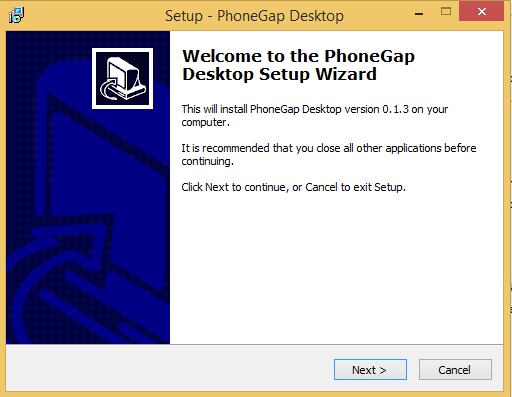
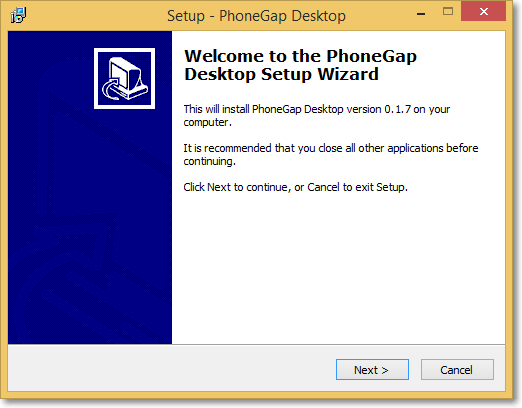
Updated all of the Win screenshots for the install desktop page to have drop-shadow to be consistent with the Mac screenshots and made them png instead of jpg. Fixed typo in SPA doc.

Changed region(s): [[0.0, 0.0, 1.0, 1.0]]

diff --git a/docs/1-getting-started/1-install-phonegap/1-desktop.html.md b/docs/1-getting-started/1-install-phonegap/1-desktop.html.md
@@ -47,25 +47,25 @@ install the __PhoneGap Developer App__ to your mobile device for previewing the 
 
 3. Accept the license agreement:
 
-  ![](/images/win-desktop2.jpg)
+  ![](/images/win-desktop2.png)
 
 4. Select the desired destination for the application and click *Next*:
 
-  ![](/images/win-desktop3.jpg)
+  ![](/images/win-desktop3.png)
 
 5. Select the desired location for the shortcut and click *Next*:
 
-  ![](/images/win-desktop4.jpg)
+  ![](/images/win-desktop4.png)
 
 6. Click *Install* to begin the installation:
 
-  ![](/images/win-desktop5.jpg)
+  ![](/images/win-desktop5.png)
 
 7. Click *Finish* to close the Setup Wizard:
 
-  ![](/images/win-desktop6.jpg)
+  ![](/images/win-desktop6.png)
 
 8. Next simply open the application and proceed to next step below where you will install the __PhoneGap Developer App__
 to your mobile device for previewing the apps you build.
 
-  ![](/images/win-desktop-app.jpg)
+  ![](/images/win-desktop-app.png)

diff --git a/docs/2-tutorials/2-develop/3-single-page-architecture.html.md b/docs/2-tutorials/2-develop/3-single-page-architecture.html.md
@@ -9,7 +9,7 @@ write: false
 Single Page Architecture (aka Single Page Applications or SPA's) is a concept many developers building HTML5 apps are likely familiar with, however it's worth mentioning for those that may not be as it is currently
  considered a hybrid mobile app best practice.
 
-The reason it's popular for mobile development specifically is the resulting native-like fluid user experience that can be attained using this architecture since the .
+The reason it's popular for mobile development specifically is the resulting native-like fluid user experience that can be attained using this architecture since the 
 UI can be redrawn without requiring a server roundtrip to retrieve HTML. State changes occur via JavaScript using templates and DOM manipulation and the logic stays on the client side.
 
 ![](/images/spa.png)
